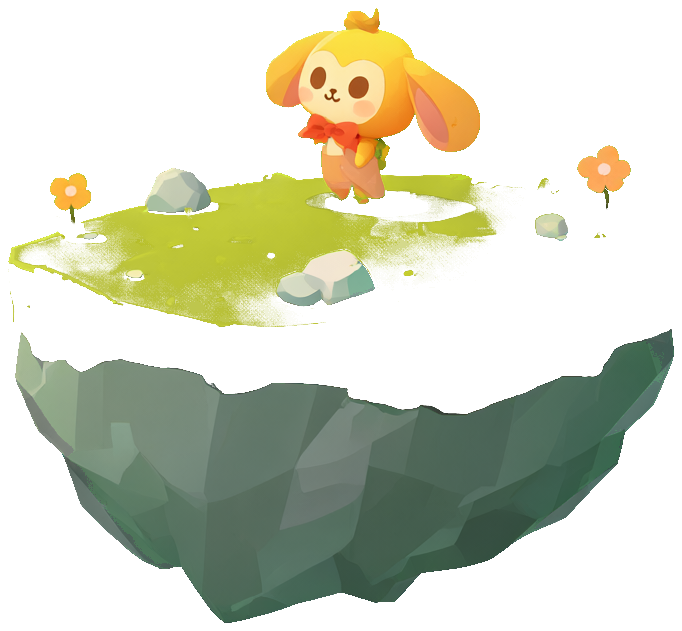
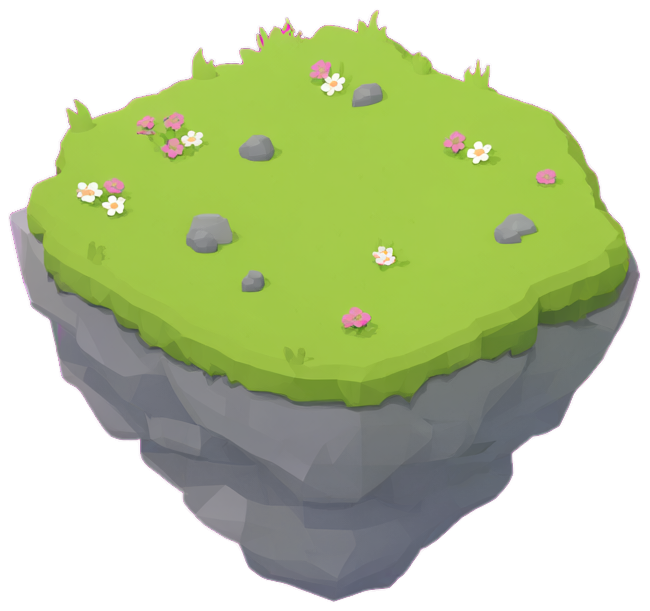
Replace the island sprite with the clean grass-and-rock chunk.
The new island keeps solid grass and a transparent background, with no mascot. Retune the grass-line anchors so the collision top still sits on the visible lip.

diff --git a/src/game/render.ts b/src/game/render.ts
@@ -9,10 +9,11 @@ import { drawHud } from "./ui";
  * Island grass is the standable band; rock hangs below it.
  * The mail slot is the dark opening, not the whole box.
  */
-const ISLAND_GRASS_Y = 218;
-const ISLAND_GRASS_LEFT = 70;
-const ISLAND_GRASS_RIGHT = 566;
-const ISLAND_ROCK_BOTTOM = 618;
+const ISLAND_GRASS_Y = 390;
+const ISLAND_GRASS_LEFT = 55;
+const ISLAND_GRASS_RIGHT = 610;
+const ISLAND_ROCK_BOTTOM = 596;
+const ISLAND_ROCK_SCALE = 1.05;
 const MAIL_SLOT_U = 102.5 / 293;
 const MAIL_SLOT_V = 191.5 / 614;
 const FOX_FOOT_U = 270 / 446;
@@ -126,7 +127,7 @@ function drawIsland(ctx: CanvasRenderingContext2D, island: IslandDef, time: numb
   if (art) {
     const grassW = ISLAND_GRASS_RIGHT - ISLAND_GRASS_LEFT;
     const hScale = w / grassW;
-    const vScale = (h * 1.22) / (ISLAND_ROCK_BOTTOM - ISLAND_GRASS_Y);
+    const vScale = (h * ISLAND_ROCK_SCALE) / (ISLAND_ROCK_BOTTOM - ISLAND_GRASS_Y);
     const dw = art.width * hScale;
     const dh = art.height * vScale;
     const dx = x - ((ISLAND_GRASS_LEFT + ISLAND_GRASS_RIGHT) / 2) * hScale;
